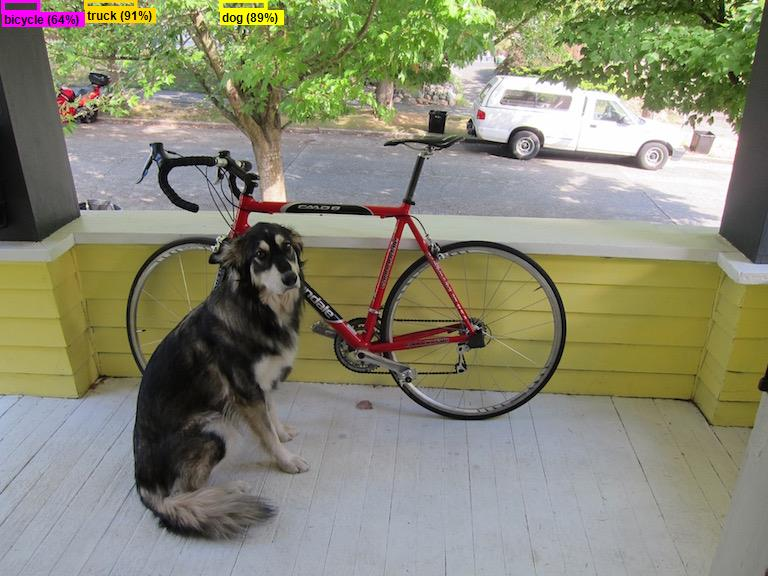
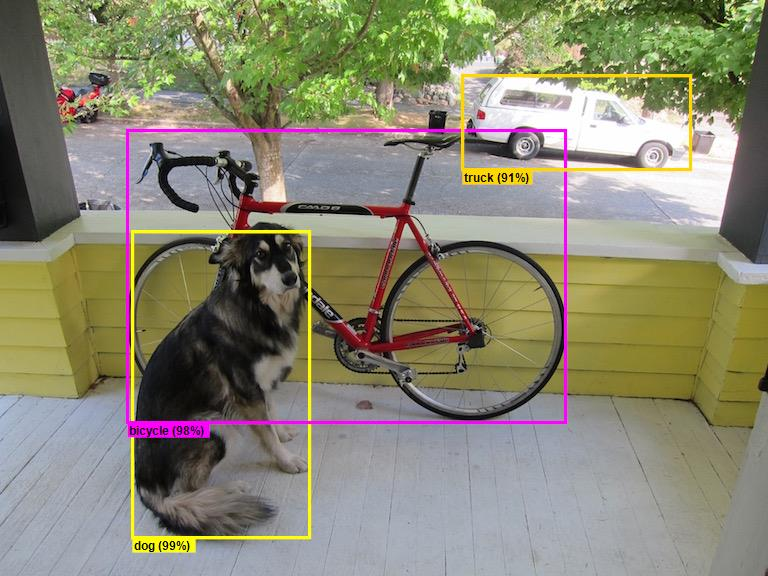
It now finally works

Changed region(s): [[0.1562, 0.125, 0.9062, 0.9688], [0.0, 0.0, 0.2188, 0.0625], [0.2812, 0.0, 0.375, 0.0625]]

diff --git a/ObjectDetectionConsoleApp/YoloParser/YoloOutputParser.cs b/ObjectDetectionConsoleApp/YoloParser/YoloOutputParser.cs
@@ -11,7 +11,7 @@ namespace ObjectDetection.YoloParser
 {
     class YoloOutputParser
     {
-        class CellDimensions : DimensionsBase { }
+        //class CellDimensions : DimensionsBase { }
 
         public const int ROW_COUNT = 13;
         public const int COL_COUNT = 13;
@@ -80,32 +80,32 @@ namespace ObjectDetection.YoloParser
             return (channel * this.channelStride) + (y * COL_COUNT) + x;
         }
 
-        private BoundingBoxDimensions ExtractBoundingBoxDimensions(float[] modelOutput, int x, int y, int channel)
-        {
-            return new BoundingBoxDimensions
-            {
-                X = modelOutput[GetOffset(x, y, channel)],
-                Y = modelOutput[GetOffset(x, y, channel + 1)],
-                Width = modelOutput[GetOffset(x, y, channel + 2)],
-                Height = modelOutput[GetOffset(x, y, channel + 3)]
-            };
-        }
+        //private BoundingBoxDimensions ExtractBoundingBoxDimensions(float[] modelOutput, int x, int y, int channel)
+        //{
+        //    return new BoundingBoxDimensions
+        //    {
+        //        X = modelOutput[GetOffset(x, y, channel)],
+        //        Y = modelOutput[GetOffset(x, y, channel + 1)],
+        //        Width = modelOutput[GetOffset(x, y, channel + 2)],
+        //        Height = modelOutput[GetOffset(x, y, channel + 3)]
+        //    };
+        //}
 
         private float GetConfidence(float[] modelOutput, int x, int y, int channel)
         {
             return Sigmoid(modelOutput[GetOffset(x, y, channel + 4)]);
         }
 
-        private CellDimensions MapBoundingBoxToCell(int x, int y, int box, BoundingBoxDimensions boxDimensions)
-        {
-            return new CellDimensions
-            {
-                X = ((float)x + Sigmoid(boxDimensions.X)) * CELL_WIDTH,
-                Y = ((float)y + Sigmoid(boxDimensions.Y)) * CELL_HEIGHT,
-                Width = (float)Math.Exp(boxDimensions.Width) * CELL_WIDTH * anchors[box * 2],
-                Height = (float)Math.Exp(boxDimensions.Height) * CELL_HEIGHT * anchors[box * 2 + 1],
-            };
-        }
+        //private CellDimensions MapBoundingBoxToCell(int x, int y, int box, BoundingBoxDimensions boxDimensions)
+        //{
+        //    return new CellDimensions
+        //    {
+        //        X = ((float)x + Sigmoid(boxDimensions.X)) * CELL_WIDTH,
+        //        Y = ((float)y + Sigmoid(boxDimensions.Y)) * CELL_HEIGHT,
+        //        Width = (float)Math.Exp(boxDimensions.Width) * CELL_WIDTH * anchors[box * 2],
+        //        Height = (float)Math.Exp(boxDimensions.Height) * CELL_HEIGHT * anchors[box * 2 + 1],
+        //    };
+        //}
 
         public float[] ExtractClasses(float[] modelOutput, int x, int y, int channel)
         {
@@ -150,52 +150,43 @@ namespace ObjectDetection.YoloParser
 
 
 
-        public IList<YoloBoundingBox> ParseOutputs(float[] boxes, float[] confs, float threshold = .6F)
+        public IList<YoloBoundingBox> ParseOutputs(float[] boxes, float[] confs, float threshold = .4F)
         {
-            var boxesUnflattened = new List<BoundingBoxDimensions>();
-            for (int i = 0; i < boxes.Length; i += 4)
+            var boxesUnflattened = new List<YoloBoxDimensions>();
+            for (int i = 0, boxNumber = 0; i < boxes.Length; i += 4, boxNumber++)
             {
-                boxesUnflattened.Add(new BoundingBoxDimensions()
-                {
-                    X = boxes[i],
-                    Y = boxes[i + 1],
-                    Width = boxes[i + 2] - boxes[i],
-                    Height = boxes[i + 3] - boxes[i + 1],
-                    //X = boxes[i + 0] - boxes[i + 2] / 2f,
-                    //Y = boxes[i + 1] - boxes[i + 3] / 2f,
-                    //Width = boxes[i + 0] + boxes[i + 2] / 2f,
-                    //Height = boxes[i + 1] + boxes[i + 3] / 2f,
-                    OriginalStuff = boxes.Skip(i).Take(4).ToArray()
-                });
+                boxesUnflattened.Add(new YoloBoxDimensions(boxNumber, boxes.Skip(i).Take(4).ToArray()));
             }
 
 
 
-            var confsUnflattened = new List<float[]>();
-            for (int i = 0; i < confs.Length; i += 80)
+            var confsUnflattened = new List<YoloConf>();
+            for (int i = 0, number = 0; i < confs.Length; i += labels.Length, number++)
             {
-                confsUnflattened.Add(confs.Skip(i).Take(80).ToArray());
+                confsUnflattened.Add(new YoloConf(number, confs.Skip(i).Take(labels.Length).ToArray()));
             }
 
 
-
-            var minx = boxesUnflattened.Min(t => t.X);
-            var maxx = boxesUnflattened.Max(t => t.X);
-            var miny = boxesUnflattened.Min(t => t.Y);
-            var maxy = boxesUnflattened.Max(t => t.Y);
-
-            var minw = boxesUnflattened.Min(t => t.Width);
-            var maxw = boxesUnflattened.Max(t => t.Width);
-            var minh = boxesUnflattened.Min(t => t.Height);
-            var maxh = boxesUnflattened.Max(t => t.Height);
+            var boxesIndexWhichHaveHighConfidence = confsUnflattened.Where(t => t.MaxConf > threshold).ToList();
+            var allBoxesThemselvesWithHighConfidence = boxesIndexWhichHaveHighConfidence.Join(boxesUnflattened, t => t.MatchingBoxNumber, t => t.BoxNumber, (conf, box) => (Box: box, Conf: conf)).ToList();
 
 
-            //var maxPerClass = Enumerable.Range(0, labels.Length).Select(i => confsUnflattened[i].Max()).ToList();
-            var maxConfidencePerBox = confsUnflattened.Select(t => t.Select((n, i) => (Number: n, Index: i)).Max()).ToList();
-            var boxesNumbered = boxesUnflattened.Select((b, i) => (Box: b, Index: i)).ToList();
 
-            var boxesIndexWhichHaveHighConfidence = maxConfidencePerBox.Where(t => t.Number > threshold).ToList();
-            var allBoxesThemselvesWithHighConfidence = boxesIndexWhichHaveHighConfidence.Join(boxesNumbered, t => t.Index, t => t.Index, (l, r) => (Box: r, Conf: l)).ToList();
+
+
+
+
+            ////var maxPerClass = Enumerable.Range(0, labels.Length).Select(i => confsUnflattened[i].Max()).ToList();
+            //var maxConfidencePerBox2 = confsUnflattened.Select((t, ii) => new { Conf = t.Select((n, i) => (Number: n, Index: i)).Max(), Index = ii }).ToList();
+            //var maxConfidencePerBox = confsUnflattened.Select(t => t.Select((n, i) => (Number: n, Index: i)).Max()).ToList();
+            //var boxesNumbered = boxesUnflattened.Select((b, i) => (Box: b, Index: i)).ToList();
+
+
+            //var res = boxesNumbered.Where(t => t.Box.Y > 0).ToList();
+
+            //var boxesaaaaaa = maxConfidencePerBox2.Where(t => t.Conf.Number > threshold).ToList();
+            //var boxesIndexWhichHaveHighConfidence = maxConfidencePerBox.Where(t => t.Number > threshold).ToList();
+            //var allBoxesThemselvesWithHighConfidence = boxesIndexWhichHaveHighConfidence.Join(boxesNumbered, t => t.Index, t => t.Index, (l, r) => (Box: r, Conf: l)).ToList();
 
 
             Console.WriteLine("I would expect a bike, dog and car here");
@@ -205,15 +196,15 @@ namespace ObjectDetection.YoloParser
 
             foreach (var b in allBoxesThemselvesWithHighConfidence)
             {
-                var startString = $"{b.Conf.Number}: {labels[b.Conf.Index]}";
-                Console.WriteLine($"{startString.PadRight(30, ' ')}({string.Join(",", b.Box.Box.OriginalStuff)})");
+                var startString = $"{b.Conf.MatchingBoxNumber}: {labels[b.Conf.MaxConfIndex]}";
+                Console.WriteLine($"{startString.PadRight(30, ' ')}({string.Join(",", b.Box.OriginalStuff)})");
 
                 boxesOutput.Add(new YoloBoundingBox()
                 {
-                    Dimensions = b.Box.Box,
-                    Confidence = b.Conf.Number,
-                    Label = labels[b.Conf.Index],
-                    BoxColor = classColors[b.Conf.Index % classColors.Length]
+                    Dimensions = b.Box,
+                    Confidence = b.Conf.MaxConf,
+                    Label = labels[b.Conf.MaxConfIndex],
+                    BoxColor = classColors[b.Conf.MaxConfIndex % classColors.Length]
                 });
             }
 

diff --git a/ObjectDetectionConsoleApp/OnnxModelScorer.cs b/ObjectDetectionConsoleApp/OnnxModelScorer.cs
@@ -1,10 +1,13 @@
 using System;
 using System.Collections.Generic;
+using System.Diagnostics;
 using System.Linq;
 using Microsoft.ML;
 using Microsoft.ML.Data;
 using ObjectDetection.DataStructures;
 using ObjectDetection.YoloParser;
+using static Microsoft.ML.Transforms.Image.ImagePixelExtractingEstimator;
+using static Microsoft.ML.Transforms.Image.ImageResizingEstimator;
 
 namespace ObjectDetection
 {
@@ -41,8 +44,8 @@ namespace ObjectDetection
 
             // Define scoring pipeline
             var pipeline = mlContext.Transforms.LoadImages(outputColumnName: "image", imageFolder: "", inputColumnName: nameof(ImageNetData.ImagePath))
-                            .Append(mlContext.Transforms.ResizeImages(outputColumnName: "image", imageWidth: ImageNetSettings.imageWidth, imageHeight: ImageNetSettings.imageHeight, inputColumnName: "image"))
-                            .Append(mlContext.Transforms.ExtractPixels(outputColumnName: "input", inputColumnName: "image", scaleImage: 1f / 255f))
+                            .Append(mlContext.Transforms.ResizeImages(outputColumnName: "image", imageWidth: ImageNetSettings.imageWidth, imageHeight: ImageNetSettings.imageHeight, inputColumnName: "image", resizing: ResizingKind.Fill))
+                            .Append(mlContext.Transforms.ExtractPixels(outputColumnName: "input", inputColumnName: "image", scaleImage: 1f / 255f, orderOfExtraction: ColorsOrder.ABGR))
                             .Append(mlContext.Transforms.ApplyOnnxModel(
                                 modelFile: modelLocation,
                                 outputColumnNames: new[] { "boxes", "confs" },
@@ -50,7 +53,9 @@ namespace ObjectDetection
                                 ));
 
             // Fit scoring pipeline
+            var w = Stopwatch.StartNew();
             var model = pipeline.Fit(data);
+            Console.WriteLine($"Fit took: {w.Elapsed}");
 
             return model;
         }
@@ -62,7 +67,9 @@ namespace ObjectDetection
             Console.WriteLine("=====Identify the objects in the images=====");
             Console.WriteLine("");
 
+            var w = Stopwatch.StartNew();
             IDataView scoredData = model.Transform(testData);
+            Console.WriteLine($"Transform took: {w.Elapsed}");
 
             return scoredData;
         }

diff --git a/ObjectDetectionConsoleApp/YoloParser/YoloBoxDimensions.cs b/ObjectDetectionConsoleApp/YoloParser/YoloBoxDimensions.cs
@@ -1,0 +1,35 @@
+namespace ObjectDetection.YoloParser
+{
+    public class YoloBoxDimensions
+    {
+        public int BoxNumber { get; }
+
+        public float X { get; }
+        public float Y { get; }
+        public float Height { get; }
+        public float Width { get; }
+
+        public float[] OriginalStuff { get; }
+
+        public YoloBoxDimensions(int boxNumber, float[] originalStuff)
+        {
+            BoxNumber = boxNumber;
+            OriginalStuff = originalStuff;
+
+            X = originalStuff[0];
+            Y = originalStuff[1];
+            Width = originalStuff[2] - originalStuff[0];
+            Height = originalStuff[3] - originalStuff[1];
+
+            //X = boxes[i + 0] - boxes[i + 2] / 2f,
+            //Y = boxes[i + 1] - boxes[i + 3] / 2f,
+            //Width = boxes[i + 0] + boxes[i + 2] / 2f,
+            //Height = boxes[i + 1] + boxes[i + 3] / 2f,
+        }
+
+        public override string ToString()
+        {
+            return $"{BoxNumber}: {{ OriginalStuff: ({string.Join(",", OriginalStuff)}) }}";
+        }
+    }
+}

diff --git a/ObjectDetectionConsoleApp/YoloParser/YoloConf.cs b/ObjectDetectionConsoleApp/YoloParser/YoloConf.cs
@@ -1,0 +1,26 @@
+using System.Linq;
+
+namespace ObjectDetection.YoloParser
+{
+    public class YoloConf
+    {
+        public int MatchingBoxNumber { get; }
+        public float[] Confs { get; }
+        public float MaxConf { get; }
+        public int MaxConfIndex { get; }
+
+        public YoloConf(int matchingBoxNumber, float[] confs)
+        {
+            MatchingBoxNumber = matchingBoxNumber;
+            Confs = confs;
+            var temp = Confs.Select((v, i) => new { Value = v, Index = i }).OrderByDescending(t => t.Value).First();
+            MaxConf = temp.Value;
+            MaxConfIndex = temp.Index;
+        }
+
+        public override string ToString()
+        {
+            return $"{MatchingBoxNumber}: {{ MaxConfIndex: {MaxConfIndex}, MaxConf: {MaxConf} }}";
+        }
+    }
+}

diff --git a/ObjectDetectionConsoleApp/Program.cs b/ObjectDetectionConsoleApp/Program.cs
@@ -61,7 +61,7 @@ namespace ObjectDetection
                     var confsHere = confs[i];
 
                     var parsedBoxes = parser.ParseOutputs(boxesHere, confsHere);
-                    parsedBoxes = parser.FilterBoundingBoxes(parsedBoxes, 5, 0.5f);
+                    parsedBoxes = parser.FilterBoundingBoxes(parsedBoxes, 50, 0.6f);
                     outputBoxes.Add(parsedBoxes);
                 }
 

diff --git a/ObjectDetectionConsoleApp/YoloParser/YoloBoundingBox.cs b/ObjectDetectionConsoleApp/YoloParser/YoloBoundingBox.cs
@@ -2,11 +2,9 @@
 
 namespace ObjectDetection.YoloParser
 {
-    public class BoundingBoxDimensions : DimensionsBase { }
-
     public class YoloBoundingBox
     {
-        public BoundingBoxDimensions Dimensions { get; set; }
+        public YoloBoxDimensions Dimensions { get; set; }
 
         public string Label { get; set; }
 
